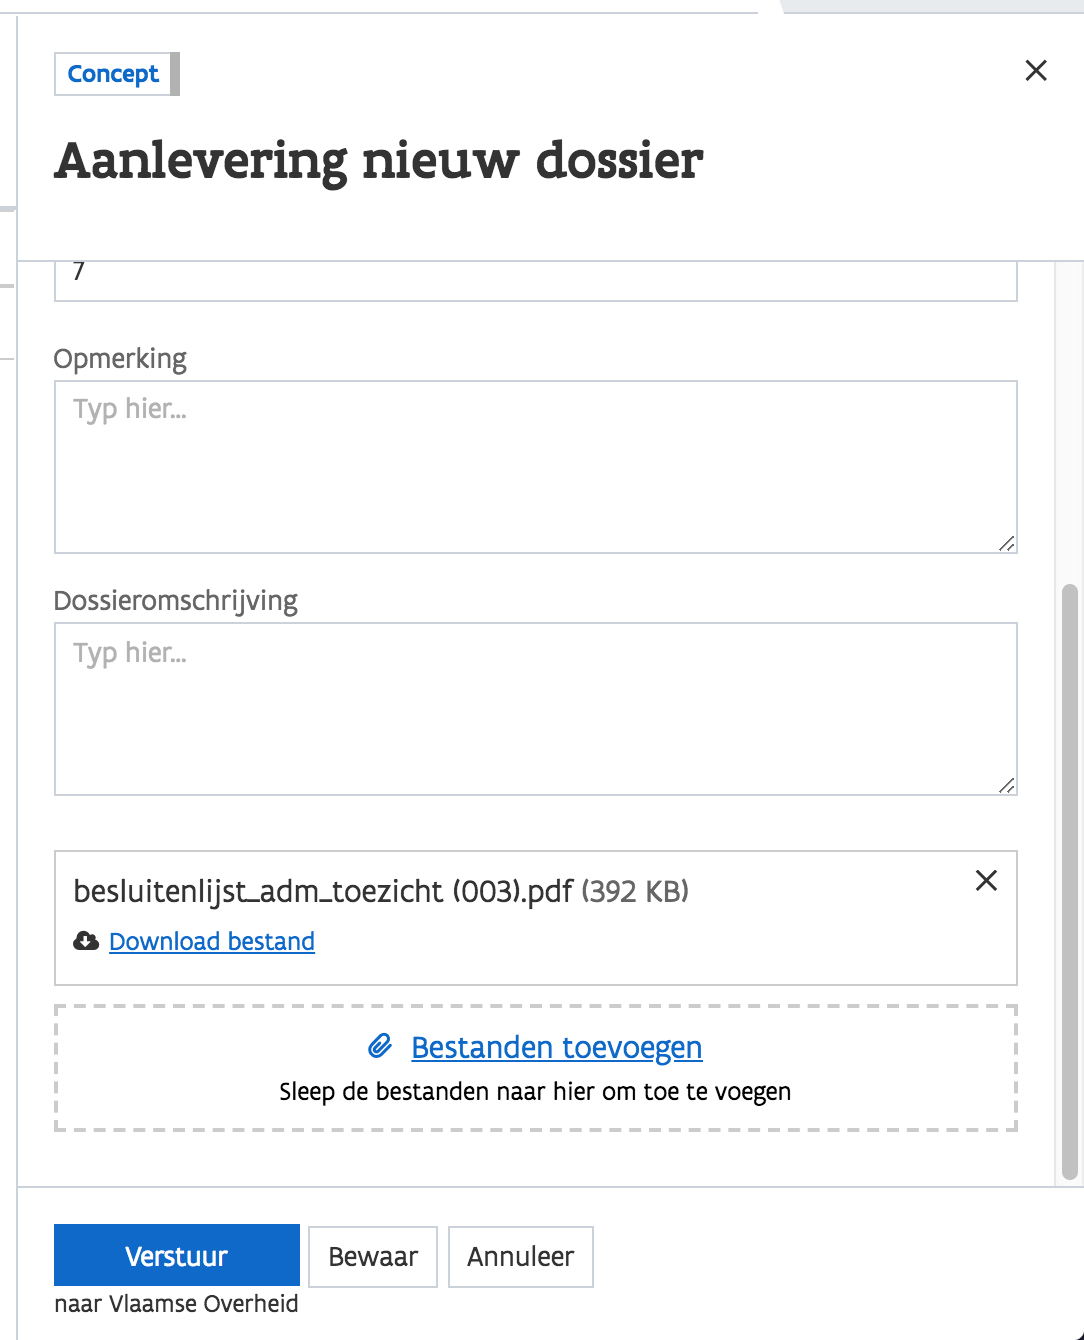
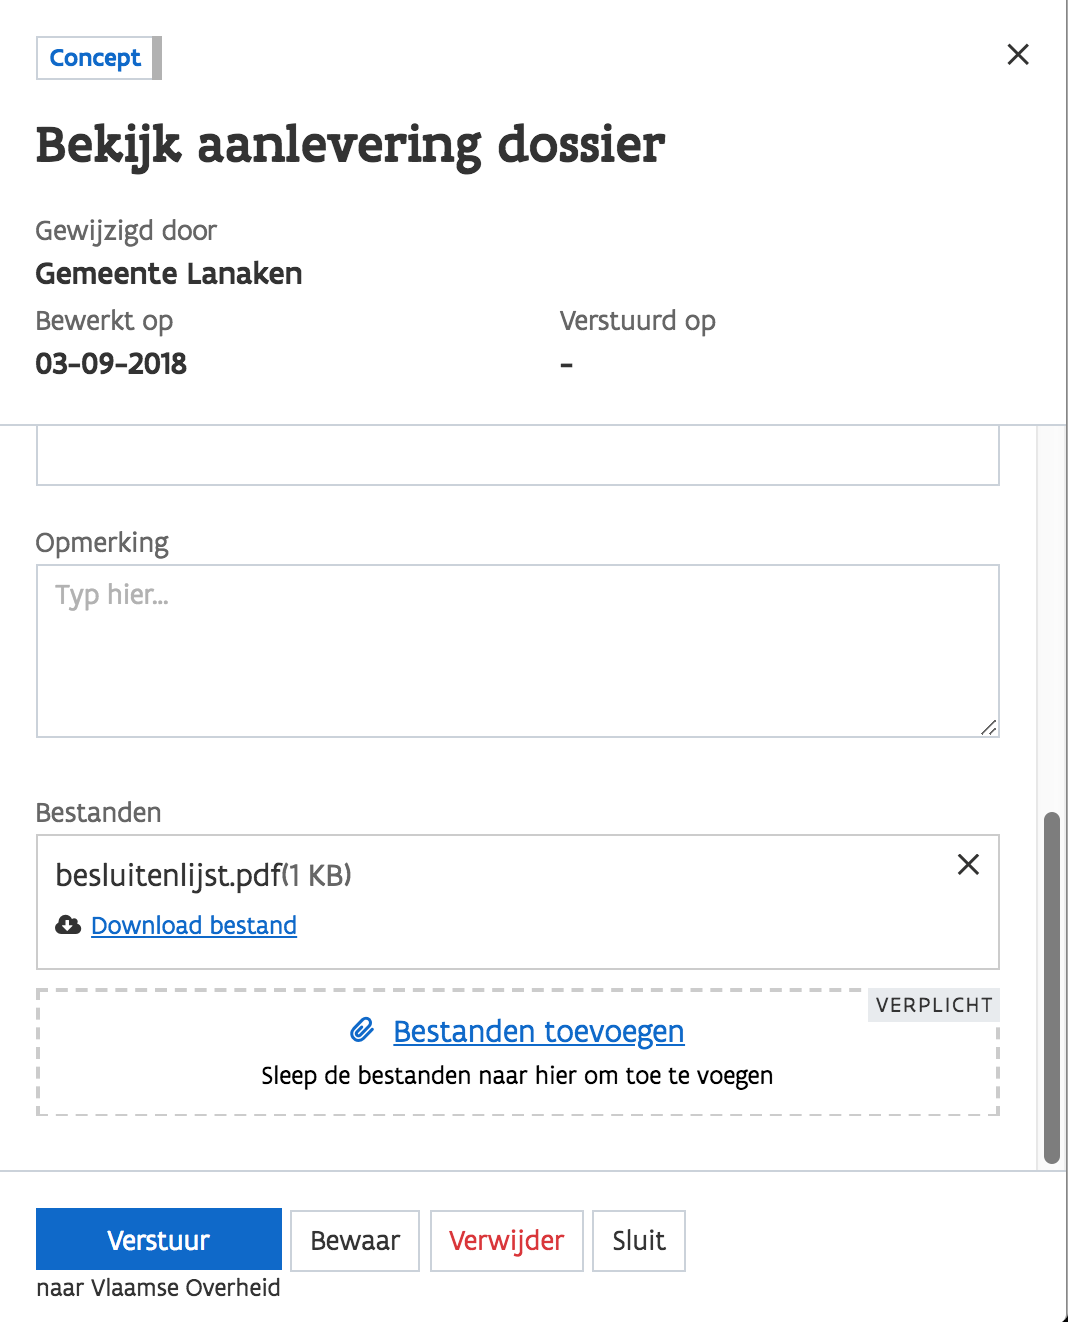
Change some more images and adjust text for mobile

diff --git a/index.html b/index.html
@@ -63,11 +63,11 @@
     <div class="vl-region">
       <div class="vl-layout">
         <div class="vl-grid">
-          <div class="vl-col--8-12">
+          <div class="vl-col--8-12 vl-col--1-1--s">
             <h1 class="vl-title--h1">Handleiding Loket Lokaal Bestuur</h1>
           </div>
-          <div class="vl-col--4-12 vl-u-align-right">
-            <h2 class="vl-title--h4"><a href="https://loket.lokaalbestuur.vlaanderen.be/login" target="_blank" class="vl-button vl-button--narrow vl-button--icon-after">Naar het Loket Lokaal Bestuur <i class="vl-vi vl-vi-external vl-button__icon vl-button__icon--after"></i></a></h2>
+          <div class="vl-col--4-12 vl-col--1-1--s vl-u-align-right">
+            <h2 class="vl-title--h4 vl-u-spacer"><a href="https://loket.lokaalbestuur.vlaanderen.be/login" target="_blank" class="vl-button vl-button--narrow vl-button--icon-after">Naar het Loket Lokaal Bestuur <i class="vl-vi vl-vi-external vl-button__icon vl-button__icon--after"></i></a></h2>
           </div>
         </div>
         <div class="vl-grid">
@@ -99,13 +99,13 @@
           <h2 class="vl-title--h4 vl-u-spacer">Inhoud van de handleiding</h2>
           <ul class="vl-link-list">
             <li class="vl-link-list__item">
-              <a href="#aanmelden">Aanmelden <i class="vl-link__icon vl-link__icon--before vl-vi vl-vi-arrow-right-fat"></i></a>
+              <a href="#aanmelden">Aanmelden</a>
             </li>
             <li class="vl-link-list__item">
-              <a href="#overzicht">Overzicht <i class="vl-link__icon vl-link__icon--before vl-vi vl-vi-arrow-right-fat"></i></a>
+              <a href="#overzicht">Overzicht</a>
             </li>
             <li class="vl-link-list__item">
-              <a href="#toezicht">Toezicht <i class="vl-link__icon vl-link__icon--before vl-vi vl-vi-arrow-right-fat"></i></a>
+              <a href="#toezicht">Toezicht</a>
               <ul>
                 <li class="vl-side-navigation__item">
                   <div><a href="#toezicht-verplicht">Inzendingsplichtige besluiten per bestuur</a></div>
@@ -131,7 +131,7 @@
               </ul>
             </li>
             <li class="vl-link-list__item">
-              <a href="#bbcdr">BBC-DR (Beleids- en Beheerscyclus Digitale Rapportering) <i class="vl-link__icon vl-link__icon--before vl-vi vl-vi-arrow-right-fat"></i></a>
+              <a href="#bbcdr">BBC-DR (Beleids- en Beheerscyclus Digitale Rapportering)</a>
               <ul>
                 <li class="vl-side-navigation__item">
                   <div><a href="#bbcdr-locatie">Locatie</a></div>
@@ -150,7 +150,7 @@
               </a>
             </li>
             <li class="vl-link-list__item">
-              <a href="#mandatenbeheer">Mandatenbeheer <i class="vl-link__icon vl-link__icon--before vl-vi vl-vi-arrow-right-fat"></i></a>
+              <a href="#mandatenbeheer">Mandatenbeheer</a>
               <ul>
                 <li class="vl-side-navigation__item">
                   <div><a href="#mandatenbeheer-locatie">Locatie</a></div>
@@ -180,9 +180,8 @@
             </li>
 
             <li class="vl-link-list__item">
-              <a href="#mandatenbeheer-theorie">Mandatenbeheer scenario's<i class="vl-vi vl-vi-arrow-right-fat"></i></a>
+              <a href="#mandatenbeheer-theorie">Mandatenbeheer scenario's</i></a>
               <ul>
-
                 <li class="vl-side-navigation__item">
                   <a href="#mandatenbeheer-theorie-1">Scenario: vervanging schepen.</a>
                 </li>
@@ -205,7 +204,7 @@
             </li>
 
             <li class="vl-link-list__item">
-              <a href="#mandatenbeheer-praktijk">Mandatenbeheer voorbeelden uit de praktijk<i class="vl-vi vl-vi-arrow-right-fat"></i></a>
+              <a href="#mandatenbeheer-praktijk">Mandatenbeheer voorbeelden uit de praktijk</a>
               <ul>
  -->
                 <li class="vl-side-navigation__item">
@@ -225,13 +224,13 @@
 
 
             <li class="vl-side-navigation__item vl-side-navigation__item--parent vl-u-spacer">
-              <a href="#administratievegegevens">Administratieve gegevens <i class="vl-link__icon vl-link__icon--before vl-vi vl-vi-arrow-right-fat"></i></a>
+              <a href="#administratievegegevens">Administratieve gegevens</a>
             </li>
             <li class="vl-link-list__item">
-              <a href="#gebruikersbeheer">Gebruikersbeheer <i class="vl-link__icon vl-link__icon--before vl-vi vl-vi-arrow-right-fat"></i></a>
+              <a href="#gebruikersbeheer">Gebruikersbeheer</a>
             </li>
 <!--             <li class="vl-link-list__item">
-              <a href="#tipstricks">Handige tips &amp; tricks <i class="vl-link__icon vl-link__icon--before vl-vi vl-vi-arrow-right-fat"></i></a>
+              <a href="#tipstricks">Handige tips &amp; tricks</a>
             </li> -->
           </ul>
         </div>
@@ -426,7 +425,7 @@
             <!-- --------------------------------- Aanmelden -------------------------------------------------->
             <section id="aanmelden" class="vl-region">
               <h2 class="vl-title--h2">Aanmelden</h2>
-              <p>Om toegang te krijgen tot het loket lokale besturen, moet u als gebruiker gekend zijn in de gebruikersbeheer lokale besturen. Dit gebeurt door de <strong>lokale beheerder</strong> die in elk bestuur aanwezig is. Meestal is dit de secretaris/algemeen directeur of griffier of iemand die door de organisatie werd aangeduid. U gaat dus best bij hen ten rade als u niet weet wie uw lokale beheerder is. <a href="#gebruikersbeheer">Meer informatie over gebruikersbeheer</a>.</p>
+              <p>Om toegang te krijgen tot het loket lokale besturen, moet u als gebruiker gekend zijn in de gebruikersbeheer lokale besturen. De <strong>lokale beheerder</strong> die in elk bestuur aanwezig is kan u hier toegang tot geven. Meestal is dit de secretaris/algemeen directeur, griffier of iemand die door de organisatie werd aangeduid. U gaat dus best bij hen ten rade als u niet weet wie uw lokale beheerder is. <a href="#gebruikersbeheer">Meer informatie over gebruikersbeheer</a>.</p>
 
               <p>Surf naar <a href="https://loket.lokaalbestuur.vlaanderen.be/login" target="_blank">https://loket.lokaalbestuur.vlaanderen.be/login</a> om veilig naar de applicatie te surfen.</p>
 
@@ -940,7 +939,7 @@
                 <!-- TODO UITKLAREN MET ABB: De dossiers die u voorheen heeft gestuurd, kan u nog opvragen via... -->
                 <img src="img/toezicht/toezicht-0-overzicht-empty-full.png" class="cus-u-spacer--large">
                 <h4 class="vl-title--h5">Bekijken</h4>
-                <p>U kan de details van een dossier bekijken door op "bekijk" te klikken. U krijgt extra informatie zoals degene die het gewijzigd heeft, en wanneer het dossier al dan niet verstuurd werd.</p>
+                <p>U kan de details van een dossier bekijken door op <strong>Bekijk</strong> te klikken. U krijgt extra informatie zoals degene die het gewijzigd heeft, en wanneer het dossier al dan niet verstuurd werd.</p>
                 <div class="vl-grid">
                   <div class="vl-col--6-12 vl-col--1-1--s">
                     Een verstuurd dossier kan enkel bekeken worden. U kan de bijlagen wel downloaden, maar niet aanpassen of verwijderen.
@@ -958,7 +957,7 @@
                 <p>Via de knop rechts <strong>Lever nieuw dossier aan</strong> kan u een type besluit of besluitenlijst versturen.</p>
                 <img src="img/toezicht/toezicht-1-nieuw.png" class="cus-manual__picture cus-u-spacer--large">
 
-                <p>Bij het veld "type dossier" kan u kiezen tussen het aanleveren van verschillende soorten besluiten of een besluitenlijst. U kan scrollen doorheen de lijst, of typen in het zoekveld om het type dossier te vinden.</p>
+                <p>Bij het veld <strong>Type dossier</strong> kan u kiezen tussen het aanleveren van verschillende soorten besluiten of een besluitenlijst. U kan scrollen doorheen de lijst, of typen in het zoekveld om het type dossier te vinden.</p>
                 <img src="img/toezicht/toezicht-2-dropdown.png" class="cus-manual__picture cus-u-spacer--large">
               </div>
 
@@ -1078,15 +1077,6 @@
                     <!-- TODO: RPIO verplichtingen checken. -->
                     <img src="img/toezicht/toezicht-4-4-besluitenlijst-date-notitle.png" class="cus-manual__picture cus-u-spacer--large">
                   </div>
-                </div>
-
-                <!-- TODO: RPIO verplichtingen checken. -->
-                <div class="vl-grid vl-u-spacer">
-                  <div class="vl-col--6-12 vl-col--1-1--s">
-                    <p><strong>Voorbeeld besluitenlijst: overige velden</strong></p>
-                    <p>U kan nog het aantal agendapunten, een opmerking en een dossieromschrijving doorgeven &mdash; deze zijn allemaal optioneel.</p>
-                    <img src="img/toezicht/toezicht-4-6-besluitenlijst-more-fields-notitle.png" class="cus-manual__picture cus-u-spacer--large">
-                  </div>
                   <div class="vl-col--6-12 vl-col--1-1--s">
                     <p><strong>Voorbeeld besluitenlijst: bijlage</strong></p>
                     <p>Bijlagen zijn verplicht. Zonder een bestand toe te voegen, kan u niets versturen.</p>
@@ -1120,7 +1110,7 @@
                 <img src="img/bbcdr/bbcdr-0-1-overzicht-empty-full.png" class="cus-u-spacer--large">
 
                 <h4 class="vl-title--h5">Bekijken</h4>
-                <p>U kan de details van een rapport bekijken door op "bekijk" te klikken. U krijgt extra informatie zoals degene die het gewijzigd heeft, en wanneer het dossier al dan niet verstuurd werd.</p>
+                <p>U kan de details van een rapport bekijken door op <strong>Bekijk</strong> te klikken. U krijgt extra informatie zoals degene die het gewijzigd heeft, en wanneer het dossier al dan niet verstuurd werd.</p>
                 <div class="vl-grid">
                   <div class="vl-col--6-12 vl-col--1-1--s">
                     Een verstuurd dossier kan enkel bekeken worden. U kan de bijlagen wel downloaden, maar niet aanpassen of verwijderen.
@@ -2183,7 +2173,7 @@
             <!-- --------------------------------- Gebruikersbeheer ---------------------------------------------------------->
             <section id="gebruikersbeheer" class="vl-region">
               <h2 class="vl-title--h2">Gebruikersbeheer</h2>
-              <p>Om toegang te krijgen tot het loket lokale besturen, moet u de nodige toegangsrechten gekregen hebben via het gebruikers- en toegangsbeheer. Dit gebeurt door de <strong>lokale beheerder</strong> die in elk bestuur aanwezig is. Meestal is dit de secretaris/algemeen directeur of griffier of iemand die door de organisatie werd aangeduid. U gaat dus best bij hen ten rade als u niet weet wie uw lokale beheerder is.</p>
+              <p>Om toegang te krijgen tot het loket lokale besturen, moet u de nodige toegangsrechten gekregen hebben via het gebruikers- en toegangsbeheer. Dit gebeurt door de <strong>lokale beheerder</strong> die in elk bestuur aanwezig is. Meestal is dit de secretaris/algemeen directeur, griffier of iemand die door de organisatie werd aangeduid. U gaat dus best bij hen ten rade als u niet weet wie uw lokale beheerder is.</p>
 
               <h3 class="vl-title--h3">Aanmelden en navigeren</h3>
               <p>Om als lokale beheerder rechten toe te kennen aan gebruikers, surft u naar <a href="https://vo-gebruikersbeheer.vlaanderen.be" target="_blank">https://vo-gebruikersbeheer.vlaanderen.be</a>. Meld u aan met uw favoriete aanmeldingssysteem.</p>
